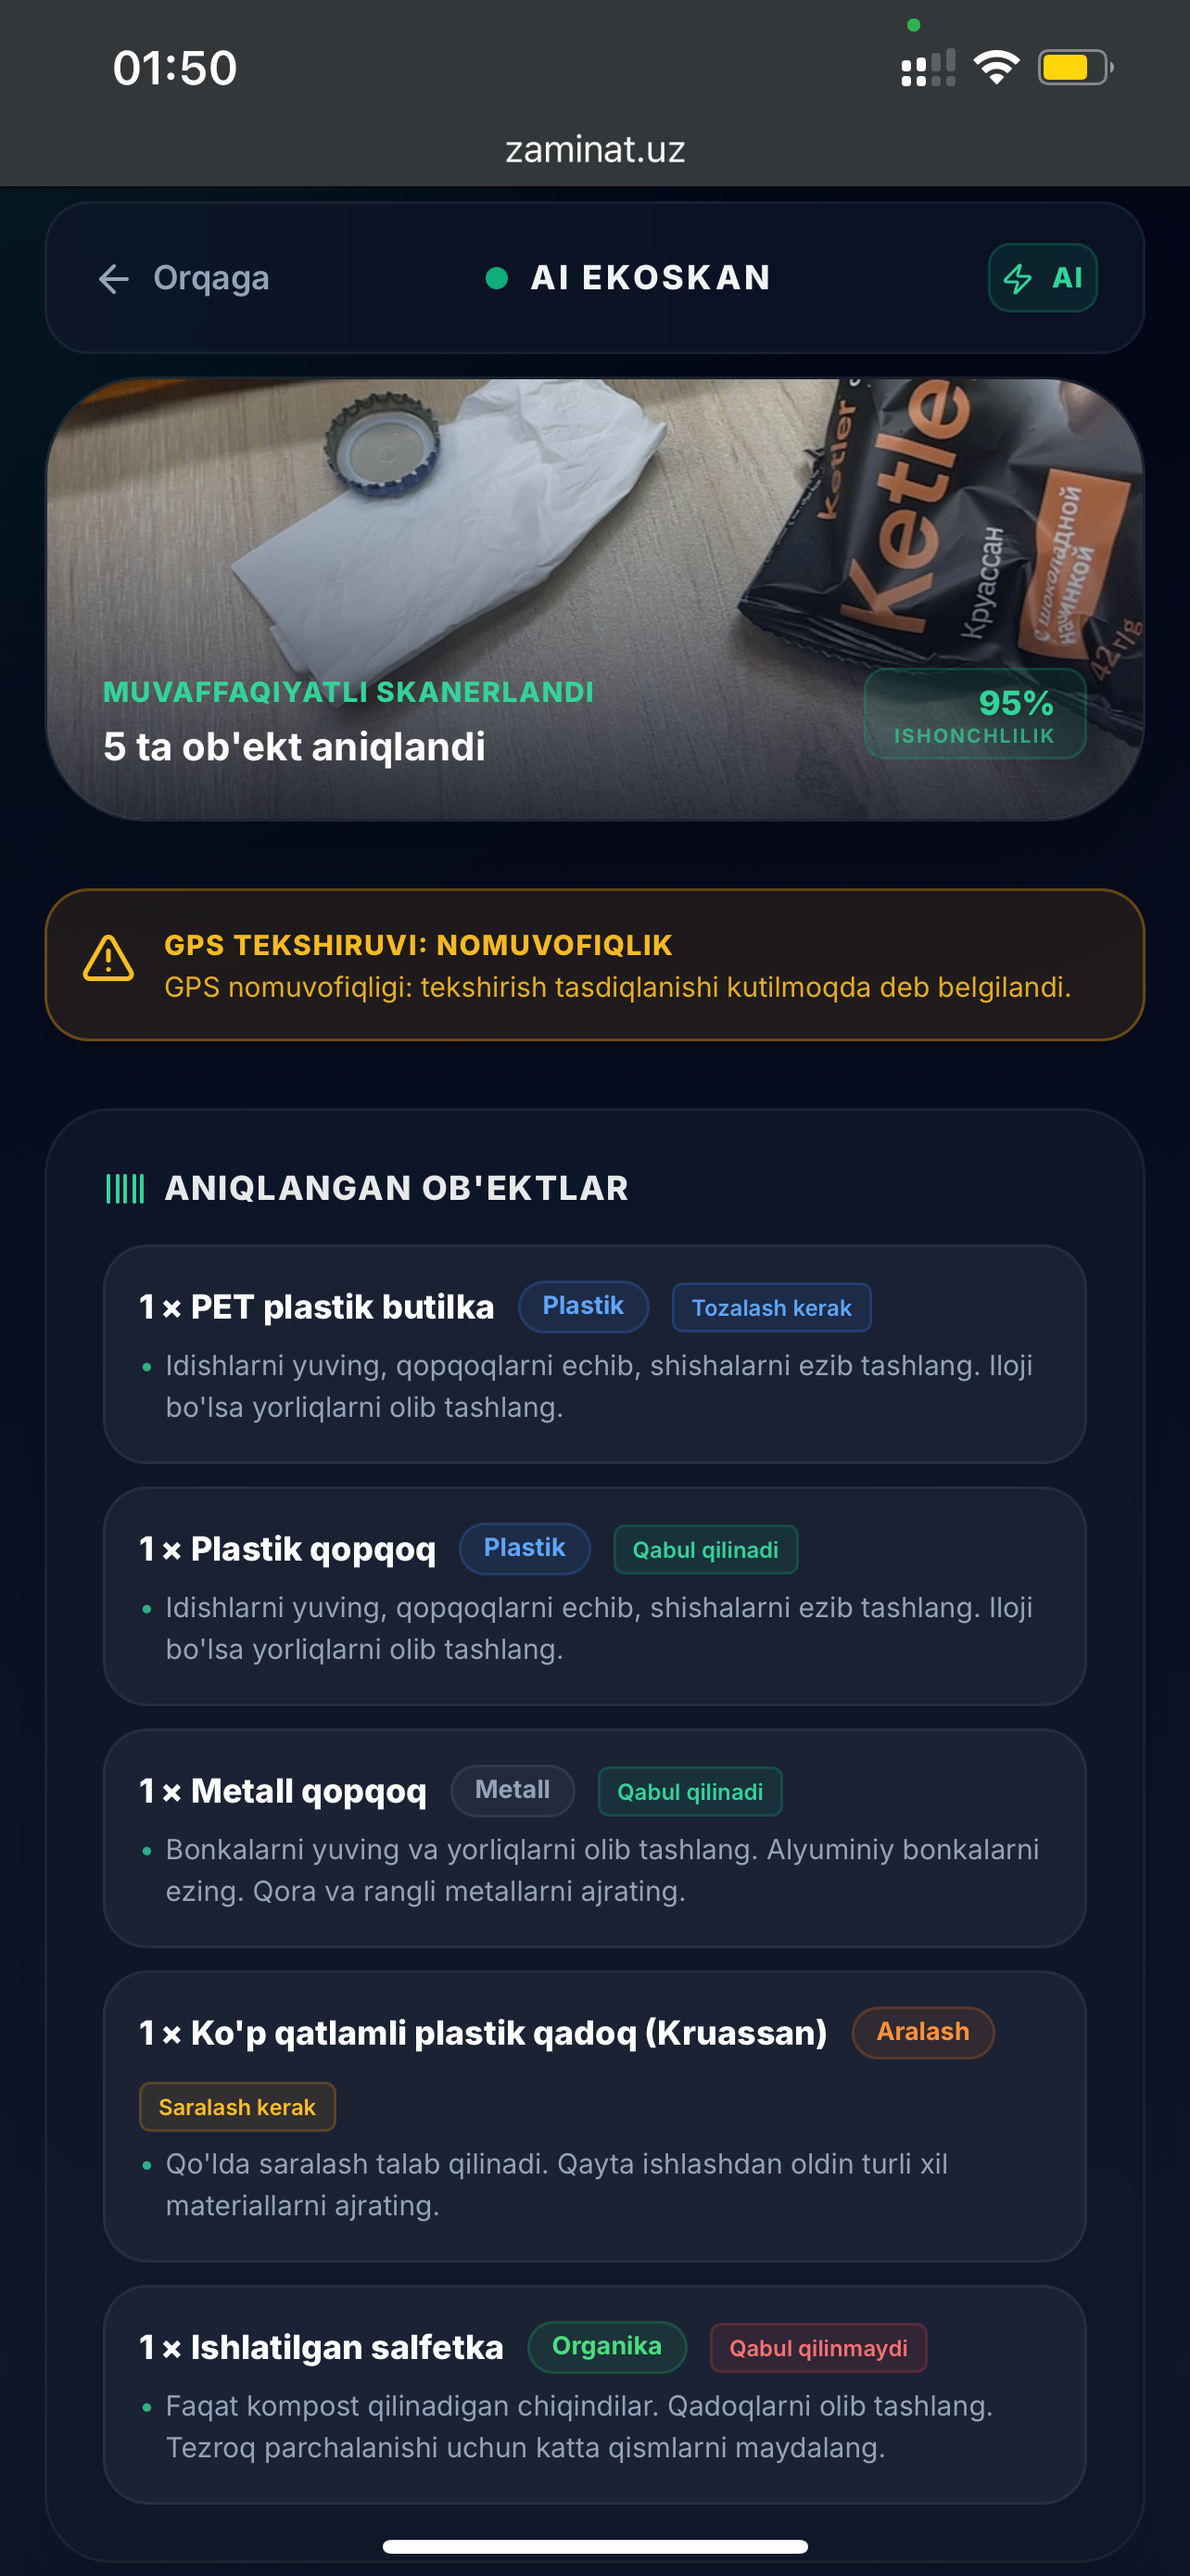
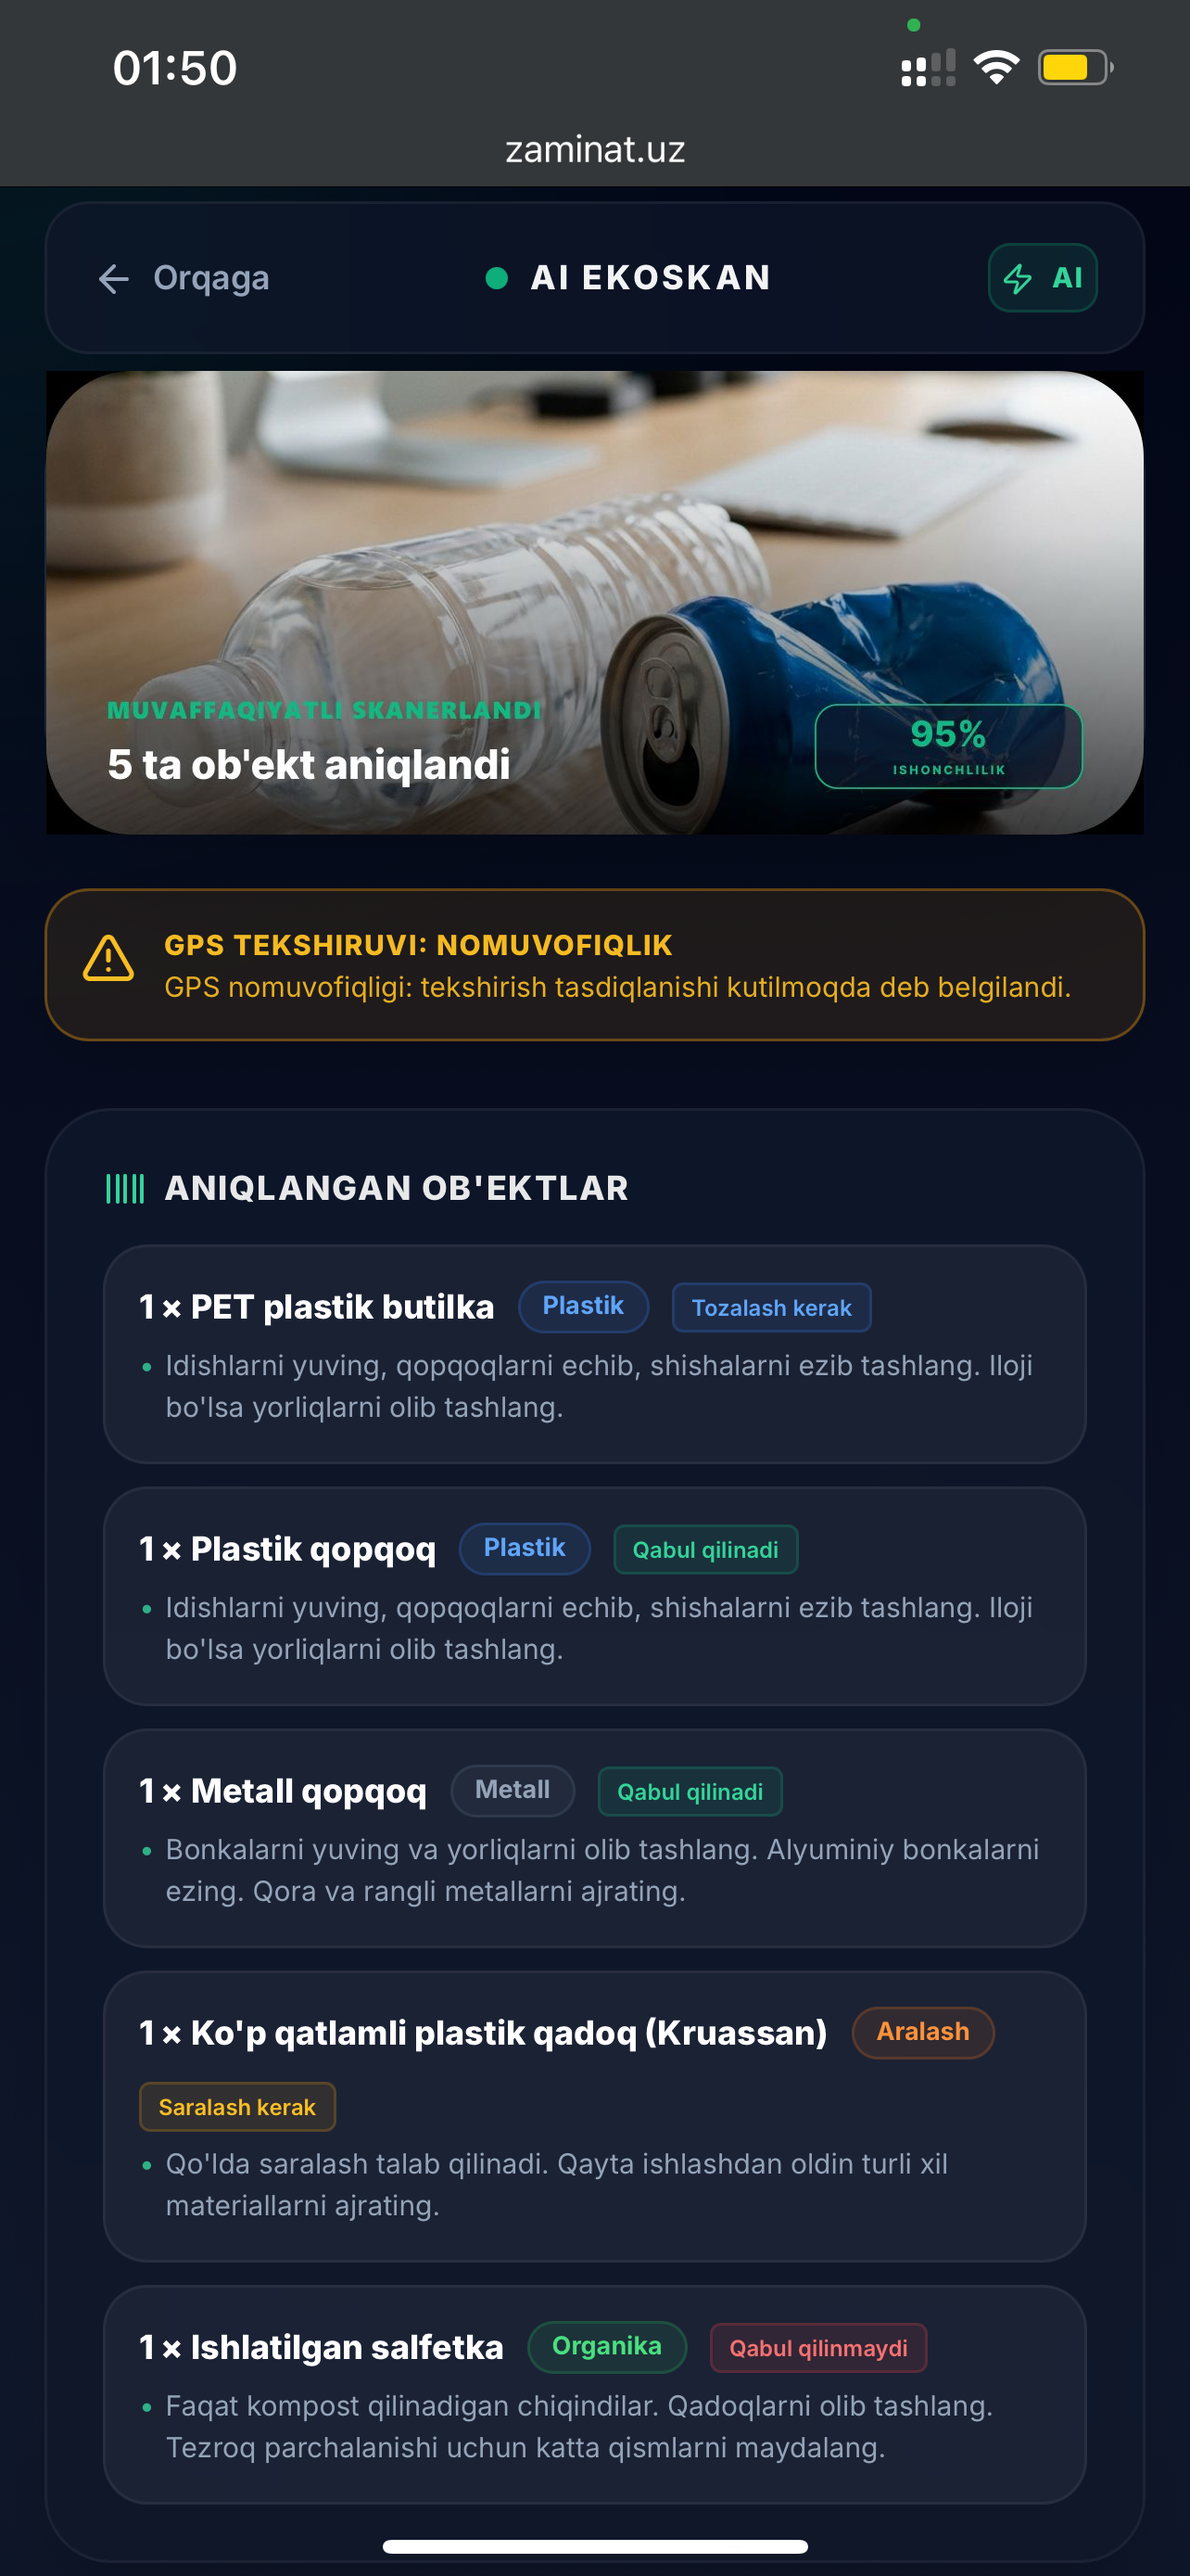
design(mockup): replace low-quality AI scan card photo with clean, high-resolution waste assets in eco-scan.png

Changed region(s): [[0.0312, 0.1238, 0.9657, 0.3405]]

diff --git a/src/lib/productImages.ts b/src/lib/productImages.ts
@@ -2,7 +2,7 @@
  * Product Image Lists
  * AUTO-GENERATED FILE - Do not edit manually!
  * Generated by: scripts/generate-product-images.js
- * Last generated: 2026-07-10T20:47:17.825Z
+ * Last generated: 2026-07-10T21:28:09.721Z
  * 
  * Maps product folder names to their available images
  * This ensures reliable image loading for product detail pages
